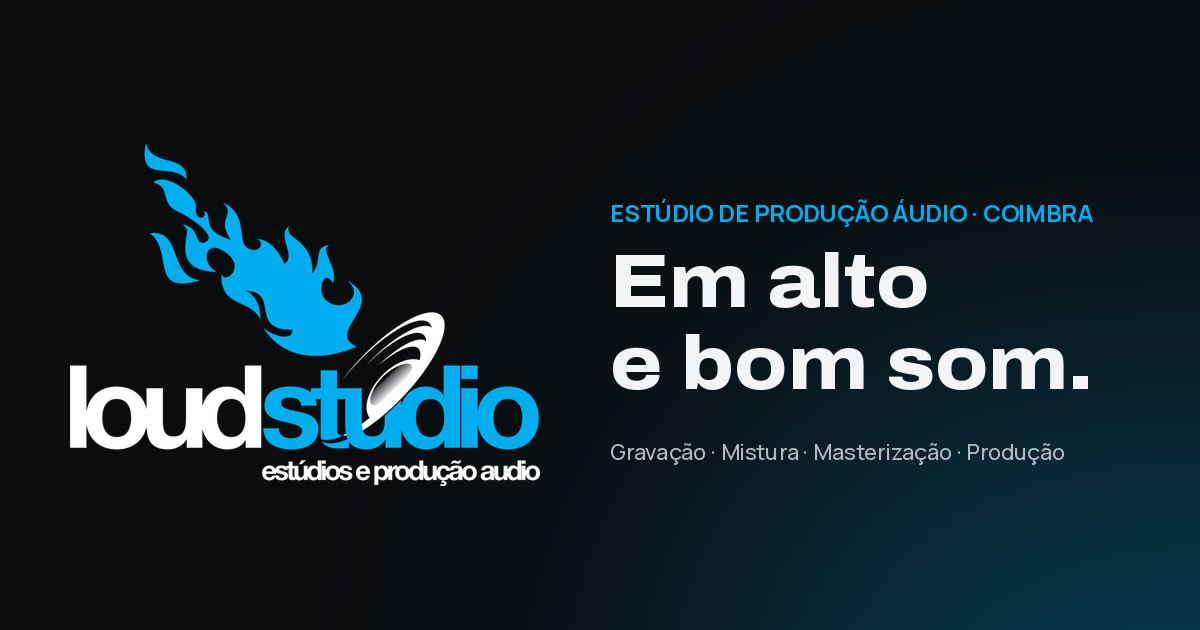
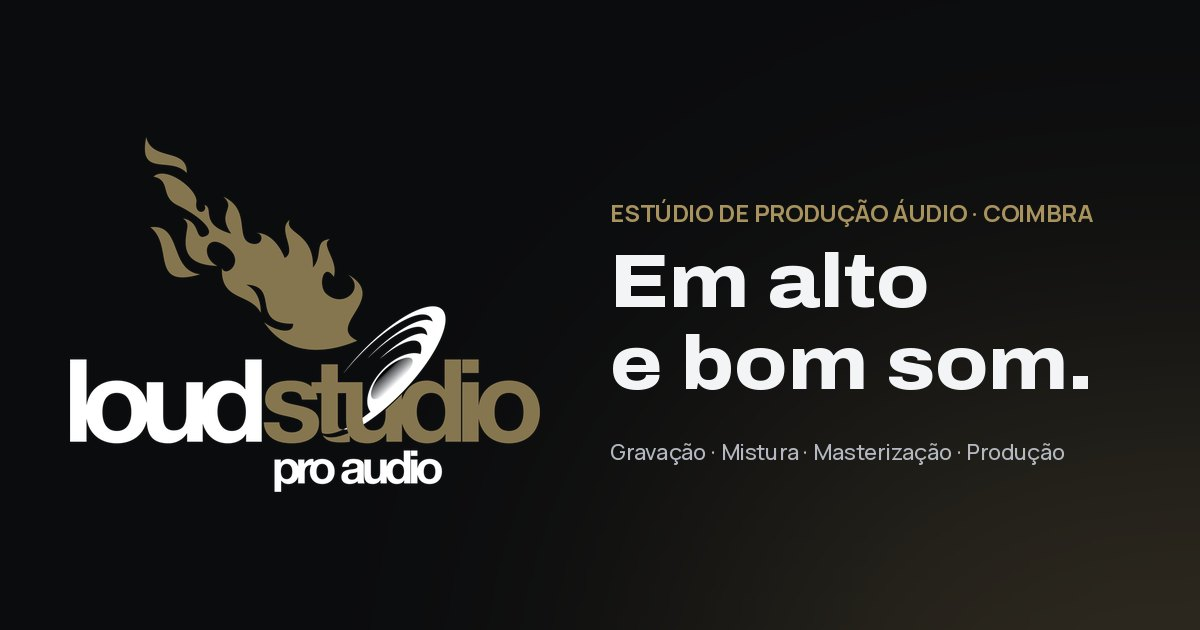
Website: gold instead of blue as the brand colour
The accent is now the gold of the Loudstudio Pro Audio logo, lifted a
little (#A8925E) so small text stays readable on the dark background.
The Li.LAC pages keep the product's UV violet.

- Footer uses the official gold logo (loudstudio-proaudio).
- New tools/make_gold_icons.py recolours the blue flame-and-record mark
  to gold for the header, favicon, touch icon and web manifest.
- Sharing image for the studio pages regenerated in gold.

Claude-Session: https://claude.ai/code/session_01BG5GuYZB1s45KCDu9raZV8

Changed region(s): [[0.0617, 0.2413, 0.4625, 0.7841], [0.6475, 0.6635, 1.0, 1.0], [0.4933, 0.3016, 0.925, 0.3619]]

diff --git a/website/public/index.html b/website/public/index.html
@@ -19,21 +19,21 @@
 <meta property="og:image:width" content="1200">
 <meta property="og:image:height" content="630">
 <meta name="twitter:card" content="summary_large_image">
-<link rel="icon" href="/favicon-32.png" sizes="32x32" type="image/png">
-<link rel="apple-touch-icon" href="/apple-touch-icon.png">
+<link rel="icon" href="/assets/img/brand/mark-gold-32.png" sizes="32x32" type="image/png">
+<link rel="apple-touch-icon" href="/assets/img/brand/mark-gold-180.png">
 <link rel="manifest" href="/site.webmanifest">
 <link rel="preload" href="/assets/fonts/archivo-latin-var.woff2" as="font" type="font/woff2" crossorigin>
 <link rel="preload" href="/assets/fonts/manrope-latin-var.woff2" as="font" type="font/woff2" crossorigin>
-<link rel="stylesheet" href="/assets/css/style.css?v=d6caace8a5">
+<link rel="stylesheet" href="/assets/css/style.css?v=ab2aa72270">
 <script>document.documentElement.classList.add("js")</script>
-<script src="/assets/js/main.js?v=d6caace8a5" defer></script>
+<script src="/assets/js/main.js?v=ab2aa72270" defer></script>
 <script type="application/ld+json">{"@context":"https://schema.org","@type":"LocalBusiness","@id":"https://loudstudio.com/#loudstudio","name":"Loudstudio","description":"Estúdio de produção áudio em Coimbra e representante oficial da LAC Labs em Portugal e Espanha.","url":"https://loudstudio.com/","email":"info@loudstudio.com","telephone":"+351965243633","image":"https://loudstudio.com/assets/img/og/loudstudio-og.jpg","founder":{"@type":"Person","name":"Toni Lourenço"},"address":{"@type":"PostalAddress","streetAddress":"Galerias Topázio, Sala 408","addressLocality":"Coimbra","addressCountry":"PT"},"areaServed":["PT","ES"],"sameAs":["https://www.facebook.com/loudstudiocoimbra/"]}</script>
 </head>
 <body class="">
 <a class="skip-link" href="#conteudo">Saltar para o conteúdo</a>
 <header class="site-header">
   <div class="container site-header__inner">
-    <a class="brand" href="/" aria-label="Loudstudio, página inicial"><img class="brand__mark" src="/assets/img/brand/icon-192.png" width="34" height="34" alt=""><span aria-hidden="true">loud<span class="brand__studio">studio</span></span></a>
+    <a class="brand" href="/" aria-label="Loudstudio, página inicial"><img class="brand__mark" src="/assets/img/brand/mark-gold-192.png" width="34" height="34" alt=""><span aria-hidden="true">loud<span class="brand__studio">studio</span></span></a>
     <nav class="nav" aria-label="Principal">
       <ul class="nav__list">
         <li><a class="nav__link" href="/estudio/">Estúdio</a></li>
@@ -242,7 +242,7 @@
   <div class="container">
     <div class="footer-grid">
       <div class="footer-brand">
-        <a href="/" aria-label="Loudstudio, página inicial"><img class="footer-logo" src="/assets/img/brand/loudstudio-480.webp" srcset="/assets/img/brand/loudstudio-480.webp 480w, /assets/img/brand/loudstudio-960.webp 960w" sizes="220px" width="480" height="350" alt="Loudstudio, estúdios e produção áudio" loading="lazy" decoding="async"></a>
+        <a href="/" aria-label="Loudstudio, página inicial"><img class="footer-logo" src="/assets/img/brand/loudstudio-proaudio-480.webp" srcset="/assets/img/brand/loudstudio-proaudio-480.webp 480w, /assets/img/brand/loudstudio-proaudio-960.webp 960w" sizes="220px" width="480" height="363" alt="Loudstudio Pro Audio" loading="lazy" decoding="async"></a>
         <p>Estúdio de produção áudio em Coimbra. Representante oficial da LAC Labs em Portugal e Espanha.</p>
       </div>
       <div>

diff --git a/website/public/es/li-lac/index.html b/website/public/es/li-lac/index.html
@@ -22,21 +22,21 @@
 <meta property="og:image:width" content="1200">
 <meta property="og:image:height" content="630">
 <meta name="twitter:card" content="summary_large_image">
-<link rel="icon" href="/favicon-32.png" sizes="32x32" type="image/png">
-<link rel="apple-touch-icon" href="/apple-touch-icon.png">
+<link rel="icon" href="/assets/img/brand/mark-gold-32.png" sizes="32x32" type="image/png">
+<link rel="apple-touch-icon" href="/assets/img/brand/mark-gold-180.png">
 <link rel="manifest" href="/site.webmanifest">
 <link rel="preload" href="/assets/fonts/archivo-latin-var.woff2" as="font" type="font/woff2" crossorigin>
 <link rel="preload" href="/assets/fonts/manrope-latin-var.woff2" as="font" type="font/woff2" crossorigin>
-<link rel="stylesheet" href="/assets/css/style.css?v=d6caace8a5">
+<link rel="stylesheet" href="/assets/css/style.css?v=ab2aa72270">
 <script>document.documentElement.classList.add("js")</script>
-<script src="/assets/js/main.js?v=d6caace8a5" defer></script>
+<script src="/assets/js/main.js?v=ab2aa72270" defer></script>
 <script type="application/ld+json">{"@context":"https://schema.org","@type":"Product","name":"Li.LAC","description":"Cajón de rack de 19” y 3U para desinfectar micrófonos con luz ultravioleta (UV-C).","brand":{"@type":"Brand","name":"LAC Labs"},"manufacturer":{"@type":"Organization","name":"LAC Labs GmbH","url":"https://www.lilac.works"},"image":"https://loudstudio.com/assets/img/lilac/gaveta-topo-1200.webp","url":"https://loudstudio.com/es/li-lac/"}</script>
 </head>
 <body class="theme-lilac">
 <a class="skip-link" href="#conteudo">Saltar al contenido</a>
 <header class="site-header">
   <div class="container site-header__inner">
-    <a class="brand" href="/es/li-lac/" aria-label="Loudstudio, Li.LAC en España"><img class="brand__mark" src="/assets/img/brand/icon-192.png" width="34" height="34" alt=""><span aria-hidden="true">loud<span class="brand__studio">studio</span></span></a>
+    <a class="brand" href="/es/li-lac/" aria-label="Loudstudio, Li.LAC en España"><img class="brand__mark" src="/assets/img/brand/mark-gold-192.png" width="34" height="34" alt=""><span aria-hidden="true">loud<span class="brand__studio">studio</span></span></a>
     <nav class="nav" aria-label="Principal">
       <ul class="nav__list">
         <li><a class="nav__link" href="/es/li-lac/" aria-current="page">Li.LAC</a></li>
@@ -333,7 +333,7 @@
   <div class="container">
     <div class="footer-grid">
       <div class="footer-brand">
-        <a href="/es/li-lac/" aria-label="Loudstudio, Li.LAC en España"><img class="footer-logo" src="/assets/img/brand/loudstudio-480.webp" srcset="/assets/img/brand/loudstudio-480.webp 480w, /assets/img/brand/loudstudio-960.webp 960w" sizes="220px" width="480" height="350" alt="Loudstudio" loading="lazy" decoding="async"></a>
+        <a href="/es/li-lac/" aria-label="Loudstudio, Li.LAC en España"><img class="footer-logo" src="/assets/img/brand/loudstudio-proaudio-480.webp" srcset="/assets/img/brand/loudstudio-proaudio-480.webp 480w, /assets/img/brand/loudstudio-proaudio-960.webp 960w" sizes="220px" width="480" height="363" alt="Loudstudio Pro Audio" loading="lazy" decoding="async"></a>
         <p>Distribuidor oficial de LAC Labs en Portugal y España. Estudio de producción de audio en Coimbra (Portugal).</p>
       </div>
       <div>

diff --git a/website/public/li-lac/index.html b/website/public/li-lac/index.html
@@ -22,21 +22,21 @@
 <meta property="og:image:width" content="1200">
 <meta property="og:image:height" content="630">
 <meta name="twitter:card" content="summary_large_image">
-<link rel="icon" href="/favicon-32.png" sizes="32x32" type="image/png">
-<link rel="apple-touch-icon" href="/apple-touch-icon.png">
+<link rel="icon" href="/assets/img/brand/mark-gold-32.png" sizes="32x32" type="image/png">
+<link rel="apple-touch-icon" href="/assets/img/brand/mark-gold-180.png">
 <link rel="manifest" href="/site.webmanifest">
 <link rel="preload" href="/assets/fonts/archivo-latin-var.woff2" as="font" type="font/woff2" crossorigin>
 <link rel="preload" href="/assets/fonts/manrope-latin-var.woff2" as="font" type="font/woff2" crossorigin>
-<link rel="stylesheet" href="/assets/css/style.css?v=d6caace8a5">
+<link rel="stylesheet" href="/assets/css/style.css?v=ab2aa72270">
 <script>document.documentElement.classList.add("js")</script>
-<script src="/assets/js/main.js?v=d6caace8a5" defer></script>
+<script src="/assets/js/main.js?v=ab2aa72270" defer></script>
 <script type="application/ld+json">{"@context":"https://schema.org","@type":"Product","name":"Li.LAC","description":"Gaveta de rack 19” 3U para desinfeção de microfones por luz ultravioleta (UV-C).","brand":{"@type":"Brand","name":"LAC Labs"},"manufacturer":{"@type":"Organization","name":"LAC Labs GmbH","url":"https://www.lilac.works"},"image":"https://loudstudio.com/assets/img/lilac/gaveta-topo-1200.webp","url":"https://loudstudio.com/li-lac/"}</script>
 </head>
 <body class="theme-lilac">
 <a class="skip-link" href="#conteudo">Saltar para o conteúdo</a>
 <header class="site-header">
   <div class="container site-header__inner">
-    <a class="brand" href="/" aria-label="Loudstudio, página inicial"><img class="brand__mark" src="/assets/img/brand/icon-192.png" width="34" height="34" alt=""><span aria-hidden="true">loud<span class="brand__studio">studio</span></span></a>
+    <a class="brand" href="/" aria-label="Loudstudio, página inicial"><img class="brand__mark" src="/assets/img/brand/mark-gold-192.png" width="34" height="34" alt=""><span aria-hidden="true">loud<span class="brand__studio">studio</span></span></a>
     <nav class="nav" aria-label="Principal">
       <ul class="nav__list">
         <li><a class="nav__link" href="/estudio/">Estúdio</a></li>
@@ -278,7 +278,7 @@
   <div class="container">
     <div class="footer-grid">
       <div class="footer-brand">
-        <a href="/" aria-label="Loudstudio, página inicial"><img class="footer-logo" src="/assets/img/brand/loudstudio-480.webp" srcset="/assets/img/brand/loudstudio-480.webp 480w, /assets/img/brand/loudstudio-960.webp 960w" sizes="220px" width="480" height="350" alt="Loudstudio, estúdios e produção áudio" loading="lazy" decoding="async"></a>
+        <a href="/" aria-label="Loudstudio, página inicial"><img class="footer-logo" src="/assets/img/brand/loudstudio-proaudio-480.webp" srcset="/assets/img/brand/loudstudio-proaudio-480.webp 480w, /assets/img/brand/loudstudio-proaudio-960.webp 960w" sizes="220px" width="480" height="363" alt="Loudstudio Pro Audio" loading="lazy" decoding="async"></a>
         <p>Estúdio de produção áudio em Coimbra. Representante oficial da LAC Labs em Portugal e Espanha.</p>
       </div>
       <div>

diff --git a/website/public/estudio/index.html b/website/public/estudio/index.html
@@ -19,20 +19,20 @@
 <meta property="og:image:width" content="1200">
 <meta property="og:image:height" content="630">
 <meta name="twitter:card" content="summary_large_image">
-<link rel="icon" href="/favicon-32.png" sizes="32x32" type="image/png">
-<link rel="apple-touch-icon" href="/apple-touch-icon.png">
+<link rel="icon" href="/assets/img/brand/mark-gold-32.png" sizes="32x32" type="image/png">
+<link rel="apple-touch-icon" href="/assets/img/brand/mark-gold-180.png">
 <link rel="manifest" href="/site.webmanifest">
 <link rel="preload" href="/assets/fonts/archivo-latin-var.woff2" as="font" type="font/woff2" crossorigin>
 <link rel="preload" href="/assets/fonts/manrope-latin-var.woff2" as="font" type="font/woff2" crossorigin>
-<link rel="stylesheet" href="/assets/css/style.css?v=d6caace8a5">
+<link rel="stylesheet" href="/assets/css/style.css?v=ab2aa72270">
 <script>document.documentElement.classList.add("js")</script>
-<script src="/assets/js/main.js?v=d6caace8a5" defer></script>
+<script src="/assets/js/main.js?v=ab2aa72270" defer></script>
 </head>
 <body class="">
 <a class="skip-link" href="#conteudo">Saltar para o conteúdo</a>
 <header class="site-header">
   <div class="container site-header__inner">
-    <a class="brand" href="/" aria-label="Loudstudio, página inicial"><img class="brand__mark" src="/assets/img/brand/icon-192.png" width="34" height="34" alt=""><span aria-hidden="true">loud<span class="brand__studio">studio</span></span></a>
+    <a class="brand" href="/" aria-label="Loudstudio, página inicial"><img class="brand__mark" src="/assets/img/brand/mark-gold-192.png" width="34" height="34" alt=""><span aria-hidden="true">loud<span class="brand__studio">studio</span></span></a>
     <nav class="nav" aria-label="Principal">
       <ul class="nav__list">
         <li><a class="nav__link" href="/estudio/" aria-current="page">Estúdio</a></li>
@@ -213,7 +213,7 @@
   <div class="container">
     <div class="footer-grid">
       <div class="footer-brand">
-        <a href="/" aria-label="Loudstudio, página inicial"><img class="footer-logo" src="/assets/img/brand/loudstudio-480.webp" srcset="/assets/img/brand/loudstudio-480.webp 480w, /assets/img/brand/loudstudio-960.webp 960w" sizes="220px" width="480" height="350" alt="Loudstudio, estúdios e produção áudio" loading="lazy" decoding="async"></a>
+        <a href="/" aria-label="Loudstudio, página inicial"><img class="footer-logo" src="/assets/img/brand/loudstudio-proaudio-480.webp" srcset="/assets/img/brand/loudstudio-proaudio-480.webp 480w, /assets/img/brand/loudstudio-proaudio-960.webp 960w" sizes="220px" width="480" height="363" alt="Loudstudio Pro Audio" loading="lazy" decoding="async"></a>
         <p>Estúdio de produção áudio em Coimbra. Representante oficial da LAC Labs em Portugal e Espanha.</p>
       </div>
       <div>

diff --git a/website/public/contactos/index.html b/website/public/contactos/index.html
@@ -19,20 +19,20 @@
 <meta property="og:image:width" content="1200">
 <meta property="og:image:height" content="630">
 <meta name="twitter:card" content="summary_large_image">
-<link rel="icon" href="/favicon-32.png" sizes="32x32" type="image/png">
-<link rel="apple-touch-icon" href="/apple-touch-icon.png">
+<link rel="icon" href="/assets/img/brand/mark-gold-32.png" sizes="32x32" type="image/png">
+<link rel="apple-touch-icon" href="/assets/img/brand/mark-gold-180.png">
 <link rel="manifest" href="/site.webmanifest">
 <link rel="preload" href="/assets/fonts/archivo-latin-var.woff2" as="font" type="font/woff2" crossorigin>
 <link rel="preload" href="/assets/fonts/manrope-latin-var.woff2" as="font" type="font/woff2" crossorigin>
-<link rel="stylesheet" href="/assets/css/style.css?v=d6caace8a5">
+<link rel="stylesheet" href="/assets/css/style.css?v=ab2aa72270">
 <script>document.documentElement.classList.add("js")</script>
-<script src="/assets/js/main.js?v=d6caace8a5" defer></script>
+<script src="/assets/js/main.js?v=ab2aa72270" defer></script>
 </head>
 <body class="">
 <a class="skip-link" href="#conteudo">Saltar para o conteúdo</a>
 <header class="site-header">
   <div class="container site-header__inner">
-    <a class="brand" href="/" aria-label="Loudstudio, página inicial"><img class="brand__mark" src="/assets/img/brand/icon-192.png" width="34" height="34" alt=""><span aria-hidden="true">loud<span class="brand__studio">studio</span></span></a>
+    <a class="brand" href="/" aria-label="Loudstudio, página inicial"><img class="brand__mark" src="/assets/img/brand/mark-gold-192.png" width="34" height="34" alt=""><span aria-hidden="true">loud<span class="brand__studio">studio</span></span></a>
     <nav class="nav" aria-label="Principal">
       <ul class="nav__list">
         <li><a class="nav__link" href="/estudio/">Estúdio</a></li>
@@ -181,7 +181,7 @@
   <div class="container">
     <div class="footer-grid">
       <div class="footer-brand">
-        <a href="/" aria-label="Loudstudio, página inicial"><img class="footer-logo" src="/assets/img/brand/loudstudio-480.webp" srcset="/assets/img/brand/loudstudio-480.webp 480w, /assets/img/brand/loudstudio-960.webp 960w" sizes="220px" width="480" height="350" alt="Loudstudio, estúdios e produção áudio" loading="lazy" decoding="async"></a>
+        <a href="/" aria-label="Loudstudio, página inicial"><img class="footer-logo" src="/assets/img/brand/loudstudio-proaudio-480.webp" srcset="/assets/img/brand/loudstudio-proaudio-480.webp 480w, /assets/img/brand/loudstudio-proaudio-960.webp 960w" sizes="220px" width="480" height="363" alt="Loudstudio Pro Audio" loading="lazy" decoding="async"></a>
         <p>Estúdio de produção áudio em Coimbra. Representante oficial da LAC Labs em Portugal e Espanha.</p>
       </div>
       <div>

diff --git a/website/public/privacidade/index.html b/website/public/privacidade/index.html
@@ -19,20 +19,20 @@
 <meta property="og:image:width" content="1200">
 <meta property="og:image:height" content="630">
 <meta name="twitter:card" content="summary_large_image">
-<link rel="icon" href="/favicon-32.png" sizes="32x32" type="image/png">
-<link rel="apple-touch-icon" href="/apple-touch-icon.png">
+<link rel="icon" href="/assets/img/brand/mark-gold-32.png" sizes="32x32" type="image/png">
+<link rel="apple-touch-icon" href="/assets/img/brand/mark-gold-180.png">
 <link rel="manifest" href="/site.webmanifest">
 <link rel="preload" href="/assets/fonts/archivo-latin-var.woff2" as="font" type="font/woff2" crossorigin>
 <link rel="preload" href="/assets/fonts/manrope-latin-var.woff2" as="font" type="font/woff2" crossorigin>
-<link rel="stylesheet" href="/assets/css/style.css?v=d6caace8a5">
+<link rel="stylesheet" href="/assets/css/style.css?v=ab2aa72270">
 <script>document.documentElement.classList.add("js")</script>
-<script src="/assets/js/main.js?v=d6caace8a5" defer></script>
+<script src="/assets/js/main.js?v=ab2aa72270" defer></script>
 </head>
 <body class="">
 <a class="skip-link" href="#conteudo">Saltar para o conteúdo</a>
 <header class="site-header">
   <div class="container site-header__inner">
-    <a class="brand" href="/" aria-label="Loudstudio, página inicial"><img class="brand__mark" src="/assets/img/brand/icon-192.png" width="34" height="34" alt=""><span aria-hidden="true">loud<span class="brand__studio">studio</span></span></a>
+    <a class="brand" href="/" aria-label="Loudstudio, página inicial"><img class="brand__mark" src="/assets/img/brand/mark-gold-192.png" width="34" height="34" alt=""><span aria-hidden="true">loud<span class="brand__studio">studio</span></span></a>
     <nav class="nav" aria-label="Principal">
       <ul class="nav__list">
         <li><a class="nav__link" href="/estudio/">Estúdio</a></li>
@@ -112,7 +112,7 @@
   <div class="container">
     <div class="footer-grid">
       <div class="footer-brand">
-        <a href="/" aria-label="Loudstudio, página inicial"><img class="footer-logo" src="/assets/img/brand/loudstudio-480.webp" srcset="/assets/img/brand/loudstudio-480.webp 480w, /assets/img/brand/loudstudio-960.webp 960w" sizes="220px" width="480" height="350" alt="Loudstudio, estúdios e produção áudio" loading="lazy" decoding="async"></a>
+        <a href="/" aria-label="Loudstudio, página inicial"><img class="footer-logo" src="/assets/img/brand/loudstudio-proaudio-480.webp" srcset="/assets/img/brand/loudstudio-proaudio-480.webp 480w, /assets/img/brand/loudstudio-proaudio-960.webp 960w" sizes="220px" width="480" height="363" alt="Loudstudio Pro Audio" loading="lazy" decoding="async"></a>
         <p>Estúdio de produção áudio em Coimbra. Representante oficial da LAC Labs em Portugal e Espanha.</p>
       </div>
       <div>

diff --git a/website/public/404.html b/website/public/404.html
@@ -19,20 +19,20 @@
 <meta property="og:image:width" content="1200">
 <meta property="og:image:height" content="630">
 <meta name="twitter:card" content="summary_large_image">
-<link rel="icon" href="/favicon-32.png" sizes="32x32" type="image/png">
-<link rel="apple-touch-icon" href="/apple-touch-icon.png">
+<link rel="icon" href="/assets/img/brand/mark-gold-32.png" sizes="32x32" type="image/png">
+<link rel="apple-touch-icon" href="/assets/img/brand/mark-gold-180.png">
 <link rel="manifest" href="/site.webmanifest">
 <link rel="preload" href="/assets/fonts/archivo-latin-var.woff2" as="font" type="font/woff2" crossorigin>
 <link rel="preload" href="/assets/fonts/manrope-latin-var.woff2" as="font" type="font/woff2" crossorigin>
-<link rel="stylesheet" href="/assets/css/style.css?v=d6caace8a5">
+<link rel="stylesheet" href="/assets/css/style.css?v=ab2aa72270">
 <script>document.documentElement.classList.add("js")</script>
-<script src="/assets/js/main.js?v=d6caace8a5" defer></script>
+<script src="/assets/js/main.js?v=ab2aa72270" defer></script>
 </head>
 <body class="">
 <a class="skip-link" href="#conteudo">Saltar para o conteúdo</a>
 <header class="site-header">
   <div class="container site-header__inner">
-    <a class="brand" href="/" aria-label="Loudstudio, página inicial"><img class="brand__mark" src="/assets/img/brand/icon-192.png" width="34" height="34" alt=""><span aria-hidden="true">loud<span class="brand__studio">studio</span></span></a>
+    <a class="brand" href="/" aria-label="Loudstudio, página inicial"><img class="brand__mark" src="/assets/img/brand/mark-gold-192.png" width="34" height="34" alt=""><span aria-hidden="true">loud<span class="brand__studio">studio</span></span></a>
     <nav class="nav" aria-label="Principal">
       <ul class="nav__list">
         <li><a class="nav__link" href="/estudio/">Estúdio</a></li>
@@ -83,7 +83,7 @@
   <div class="container">
     <div class="footer-grid">
       <div class="footer-brand">
-        <a href="/" aria-label="Loudstudio, página inicial"><img class="footer-logo" src="/assets/img/brand/loudstudio-480.webp" srcset="/assets/img/brand/loudstudio-480.webp 480w, /assets/img/brand/loudstudio-960.webp 960w" sizes="220px" width="480" height="350" alt="Loudstudio, estúdios e produção áudio" loading="lazy" decoding="async"></a>
+        <a href="/" aria-label="Loudstudio, página inicial"><img class="footer-logo" src="/assets/img/brand/loudstudio-proaudio-480.webp" srcset="/assets/img/brand/loudstudio-proaudio-480.webp 480w, /assets/img/brand/loudstudio-proaudio-960.webp 960w" sizes="220px" width="480" height="363" alt="Loudstudio Pro Audio" loading="lazy" decoding="async"></a>
         <p>Estúdio de produção áudio em Coimbra. Representante oficial da LAC Labs em Portugal e Espanha.</p>
       </div>
       <div>

diff --git a/website/public/assets/css/style.css b/website/public/assets/css/style.css
@@ -28,10 +28,11 @@
   --text: #f3f4f6;
   --text-2: #b4b9c1;
   --text-3: #8a9099;
-  --accent: #00aeef;
-  --accent-rgb: 0, 174, 239;
-  --accent-hover: #5ccbf5;
-  --accent-ink: #04121a;
+  --gold: #a8925e;              /* the gold of the logo, lifted a little for legibility */
+  --accent: var(--gold);
+  --accent-rgb: 168, 146, 94;
+  --accent-hover: #c5b07e;
+  --accent-ink: #15120b;
   --uv: #b06bff;
   --uv-rgb: 176, 107, 255;
 
@@ -40,7 +41,7 @@
   --light-line: #d5d9df;
   --light-text: #121417;
   --light-text-2: #434951;
-  --light-accent: #0a6aad;
+  --light-accent: #6f5d33;
 
   --font-display: "Archivo", "Helvetica Neue", Helvetica, sans-serif;
   --font-body: "Manrope", "Helvetica Neue", Helvetica, sans-serif;
@@ -1108,7 +1109,7 @@ a.contact-list__value:hover { color: var(--accent); }
 .lead + .btn-row, .lead + .download { margin-top: 32px; }
 .stack-lg { margin-top: clamp(56px, 8vw, 104px); }
 
-/* ---------- Li.LAC theme: the product's own UV violet replaces the studio blue ---------- */
+/* ---------- Li.LAC theme: the product's own UV violet replaces the studio gold ---------- */
 
 .theme-lilac {
   --accent: var(--uv);
@@ -1116,7 +1117,7 @@ a.contact-list__value:hover { color: var(--accent); }
   --accent-hover: #c99bff;
   --accent-ink: #12061f;
 }
-.theme-lilac .brand__studio { color: #00aeef; }
+.theme-lilac .brand__studio { color: var(--gold); }
 .theme-lilac { --light-accent: #7330c9; }
 
 .area--product .media img { object-fit: contain; padding: 6% 6% 34%; }

diff --git a/website/src/footer.es.html b/website/src/footer.es.html
@@ -2,7 +2,7 @@
   <div class="container">
     <div class="footer-grid">
       <div class="footer-brand">
-        <a href="/es/li-lac/" aria-label="Loudstudio, Li.LAC en España"><img class="footer-logo" src="/assets/img/brand/loudstudio-480.webp" srcset="/assets/img/brand/loudstudio-480.webp 480w, /assets/img/brand/loudstudio-960.webp 960w" sizes="220px" width="480" height="350" alt="Loudstudio" loading="lazy" decoding="async"></a>
+        <a href="/es/li-lac/" aria-label="Loudstudio, Li.LAC en España"><img class="footer-logo" src="/assets/img/brand/loudstudio-proaudio-480.webp" srcset="/assets/img/brand/loudstudio-proaudio-480.webp 480w, /assets/img/brand/loudstudio-proaudio-960.webp 960w" sizes="220px" width="480" height="363" alt="Loudstudio Pro Audio" loading="lazy" decoding="async"></a>
         <p>Distribuidor oficial de LAC Labs en Portugal y España. Estudio de producción de audio en Coimbra (Portugal).</p>
       </div>
       <div>

diff --git a/website/src/footer.pt.html b/website/src/footer.pt.html
@@ -2,7 +2,7 @@
   <div class="container">
     <div class="footer-grid">
       <div class="footer-brand">
-        <a href="/" aria-label="Loudstudio, página inicial"><img class="footer-logo" src="/assets/img/brand/loudstudio-480.webp" srcset="/assets/img/brand/loudstudio-480.webp 480w, /assets/img/brand/loudstudio-960.webp 960w" sizes="220px" width="480" height="350" alt="Loudstudio, estúdios e produção áudio" loading="lazy" decoding="async"></a>
+        <a href="/" aria-label="Loudstudio, página inicial"><img class="footer-logo" src="/assets/img/brand/loudstudio-proaudio-480.webp" srcset="/assets/img/brand/loudstudio-proaudio-480.webp 480w, /assets/img/brand/loudstudio-proaudio-960.webp 960w" sizes="220px" width="480" height="363" alt="Loudstudio Pro Audio" loading="lazy" decoding="async"></a>
         <p>Estúdio de produção áudio em Coimbra. Representante oficial da LAC Labs em Portugal e Espanha.</p>
       </div>
       <div>

diff --git a/website/src/header.es.html b/website/src/header.es.html
@@ -1,7 +1,7 @@
 <a class="skip-link" href="#conteudo">Saltar al contenido</a>
 <header class="site-header">
   <div class="container site-header__inner">
-    <a class="brand" href="/es/li-lac/" aria-label="Loudstudio, Li.LAC en España"><img class="brand__mark" src="/assets/img/brand/icon-192.png" width="34" height="34" alt=""><span aria-hidden="true">loud<span class="brand__studio">studio</span></span></a>
+    <a class="brand" href="/es/li-lac/" aria-label="Loudstudio, Li.LAC en España"><img class="brand__mark" src="/assets/img/brand/mark-gold-192.png" width="34" height="34" alt=""><span aria-hidden="true">loud<span class="brand__studio">studio</span></span></a>
     <nav class="nav" aria-label="Principal">
       <ul class="nav__list">
         <li><a class="nav__link" href="/es/li-lac/"{{current:lilac}}>Li.LAC</a></li>

diff --git a/website/src/header.pt.html b/website/src/header.pt.html
@@ -1,7 +1,7 @@
 <a class="skip-link" href="#conteudo">Saltar para o conteúdo</a>
 <header class="site-header">
   <div class="container site-header__inner">
-    <a class="brand" href="/" aria-label="Loudstudio, página inicial"><img class="brand__mark" src="/assets/img/brand/icon-192.png" width="34" height="34" alt=""><span aria-hidden="true">loud<span class="brand__studio">studio</span></span></a>
+    <a class="brand" href="/" aria-label="Loudstudio, página inicial"><img class="brand__mark" src="/assets/img/brand/mark-gold-192.png" width="34" height="34" alt=""><span aria-hidden="true">loud<span class="brand__studio">studio</span></span></a>
     <nav class="nav" aria-label="Principal">
       <ul class="nav__list">
         <li><a class="nav__link" href="/estudio/"{{current:estudio}}>Estúdio</a></li>
